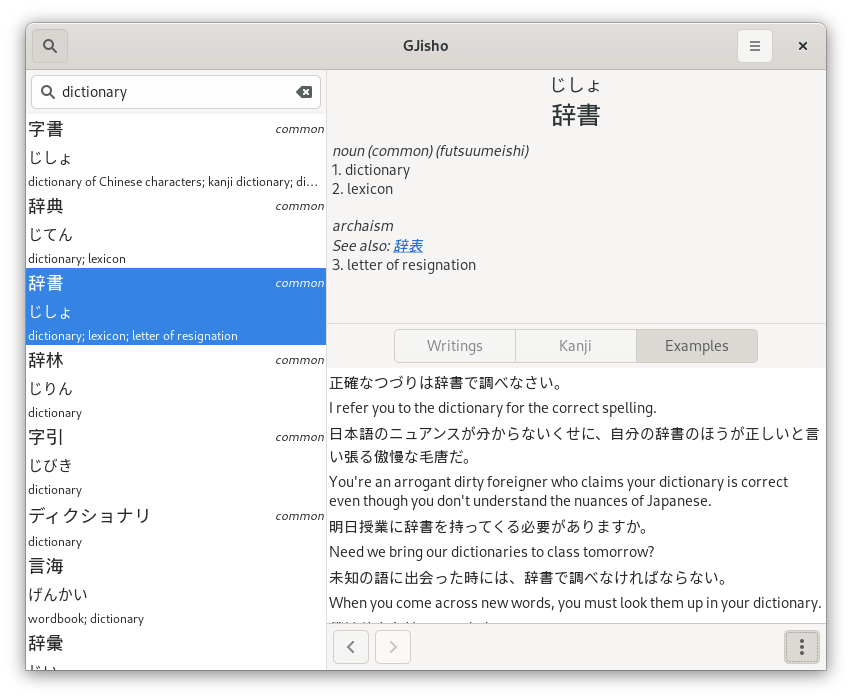
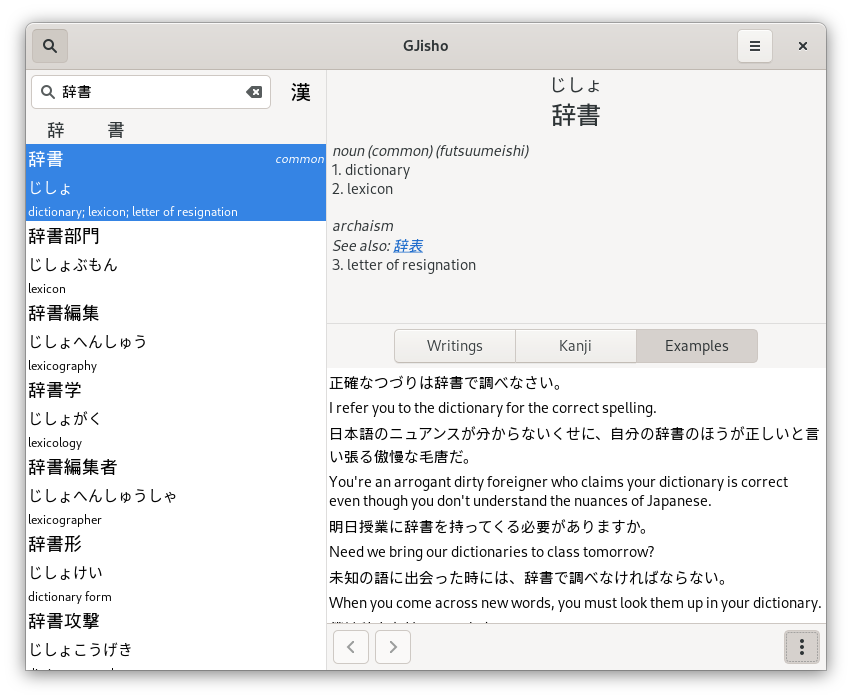
Add more and updated screenshots to README

diff --git a/README.md b/README.md
@@ -32,3 +32,9 @@ These resources can be downloaded manually and placed into the correct locations
   - Download: <ftp://ftp.monash.edu/pub/nihongo/examples.utf.gz>
 - KanjiVG: <https://github.com/KanjiVG/kanjivg>
   - Download: <https://github.com/KanjiVG/kanjivg/releases/download/r20160426/kanjivg-20160426.xml.gz>
+
+## Screenshots
+
+![A screenshot of GJisho showing the kanji details view](static/kanji-details.png)
+![A screenshot of GJisho showing the example details view](static/example-details.png)
+![A screenshot of GJisho showing the kanji composition popup](static/kanji-compose.png)
